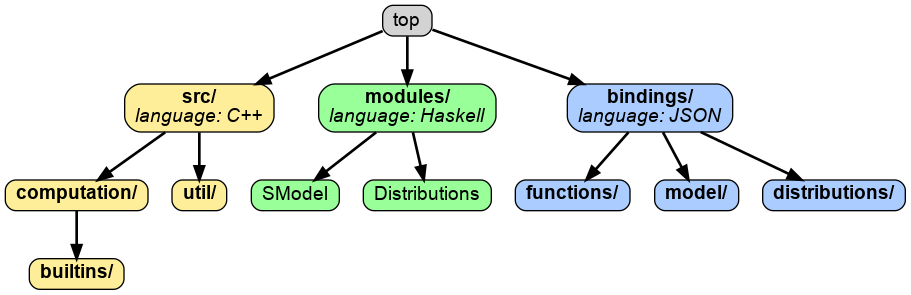
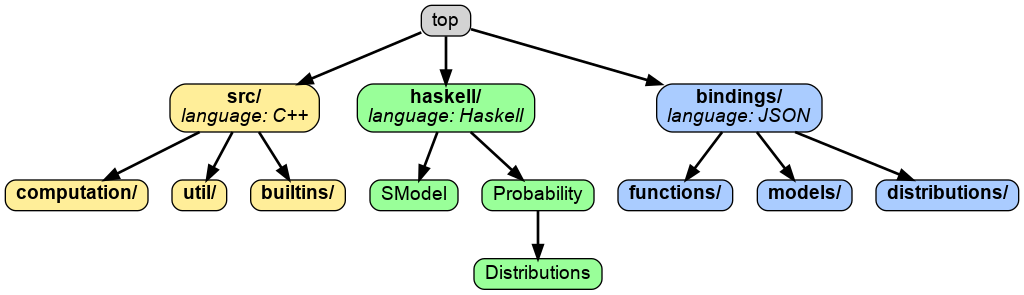
Update developer docs.
Former-commit-id: 09e88c0f77c6412903cdc193b465acfbdbbe5f4d

diff --git a/developer/distribution.html b/developer/distribution.html
@@ -77,68 +77,45 @@ code span.wa { color: #60a0b0; font-weight: bold; font-style: italic; } /* Warni
   <link rel="stylesheet" href="pandoc.css" />
 </head>
 <body>
-<header>
+<header id="title-block-header">
 <h1 class="title">Add a probability distributon to BAli-Phy</h1>
 </header>
-<p>Distributions are defined in <a href="https://github.com/bredelings/BAli-Phy/blob/master/modules/Distributions.hs">modules/Distributions.hs</a>.</p>
-<h2 id="making-a-probdensity-object">Making a ProbDensity object</h2>
-<p>For a distribution, you need to add a function that constructs a ProbDensity object.</p>
-<div class="sourceCode" id="cb1"><pre class="sourceCode haskell"><code class="sourceCode haskell"><a class="sourceLine" id="cb1-1" title="1">name parameters <span class="fu">=</span> <span class="dt">ProbDensity</span> (densities parameters) (quantile parameters) (sample parameters) (<span class="fu">range</span> parameters)</a></code></pre></div>
-<p>Here <code>densities</code> returns a list of terms which yield the density when multiplied together.</p>
+<p>Each probability distribution is defined in a module for that distribution. For example, the normal distribution is defined in <code>Probability.Distribution.Normal</code>, which is located at <a href="https://github.com/bredelings/BAli-Phy/blob/master/haskell/Probability/Distribution/Normal.hs">haskell/Probability/Distribution/Normal.hs</a>.</p>
+<p>To make a new distribution <code>mydist</code>, you should follow these steps, using the normal distribution as a template:</p>
+<ol type="1">
+<li>create a new Haskell module <code>Probability.Distribution.MyDist</code> in <code>haskell/Probability/Distribution/Mydist.hs</code> using <code>Normal.hs</code> as a template.</li>
+<li>create a new c++ function <code>builtin_function_mydist_density</code> in <code>src/builtins/Distribution.cc</code> using <code>builtin_function_normal_density</code> as a template.</li>
+<li>create a new c++ function <code>builtin_function_sample_mydist</code> in <code>src/builtins/Distribution.cc</code> using <code>builtin_function_sample_normal</code> as a template.</li>
+<li>[optional] create a new c++ function <code>builtin_function_mydist_quantile</code> in <code>src/builtins/Distribution.cc</code> using <code>builtin_function_normal_quantile</code> as a template.</li>
+<li>create a new JSON binding in <code>bindings/distributions/mydist.json</code> using <code>bindings/distribution/normal.json</code> as a template.</li>
+</ol>
+<h2 id="making-haskell-model-that-defines-the-distribution">Making Haskell model that defines the distribution</h2>
+<p>For a distribution, you need to add a function that constructs a Distribution object.</p>
+<div class="sourceCode" id="cb1"><pre class="sourceCode haskell"><code class="sourceCode haskell"><a class="sourceLine" id="cb1-1" title="1">name parameters <span class="ot">=</span> <span class="dt">Distribution</span> (densities parameters) (quantile parameters) (sample parameters) (<span class="fu">range</span> parameters)</a></code></pre></div>
 <p>For example, the Normal distribution is defined as:</p>
 <div class="sourceCode" id="cb2"><pre class="sourceCode haskell"><code class="sourceCode haskell"><a class="sourceLine" id="cb2-1" title="1">builtin normal_density <span class="dv">3</span> <span class="st">&quot;normal_density&quot;</span> <span class="st">&quot;Distribution&quot;</span></a>
 <a class="sourceLine" id="cb2-2" title="2">builtin normal_quantile <span class="dv">3</span> <span class="st">&quot;normal_quantile&quot;</span> <span class="st">&quot;Distribution&quot;</span></a>
-<a class="sourceLine" id="cb2-3" title="3">builtin builtin_sample_normal <span class="dv">2</span> <span class="st">&quot;sample_normal&quot;</span> <span class="st">&quot;Distribution&quot;</span></a>
-<a class="sourceLine" id="cb2-4" title="4">sample_normal m s <span class="fu">=</span> <span class="dt">Random</span> (<span class="dt">IOAction2</span> builtin_sample_normal m s)</a>
-<a class="sourceLine" id="cb2-5" title="5">normal m s <span class="fu">=</span> <span class="dt">ProbDensity</span> (\x <span class="ot">-&gt;</span> [normal_density m s x]) (normal_quantile m s) (sample_normal m s) realLine</a></code></pre></div>
-<h2 id="defining-the-density">Defining the density</h2>
-<p>A density function takes an extra argument after the distribution parameters. For example, the normal density takes 3 arguments, so that <code>(normal_density m s)</code> is a function of the third argument.</p>
-<p>A density function should return type <code>log_double_t</code>.</p>
-<h3 id="quantile">Quantile</h3>
+<a class="sourceLine" id="cb2-3" title="3">builtin builtin_sample_normal <span class="dv">3</span> <span class="st">&quot;sample_normal&quot;</span> <span class="st">&quot;Distribution&quot;</span></a>
+<a class="sourceLine" id="cb2-4" title="4">sample_normal m s <span class="ot">=</span> <span class="dt">RandomStructure</span> do_nothing modifiable_structure <span class="op">$</span> liftIO (<span class="dt">IOAction</span> (\state <span class="ot">-&gt;</span> (state, builtin_sample_normal m s state)))</a>
+<a class="sourceLine" id="cb2-5" title="5">normal m s <span class="ot">=</span> <span class="dt">Distribution</span> (\x <span class="ot">-&gt;</span> [normal_density m s x]) (normal_quantile m s) (sample_normal m s) realLine</a></code></pre></div>
+<h3 id="densities">densities</h3>
+<p>The first argument to <code>Distribution</code> is a function that returns a list of terms which yield the density when multiplied together. In this case there is just one term.</p>
+<p>A <code>normal_density</code> function takes an extra argument after the distribution parameters. For example, the normal density takes 3 arguments, so that <code>(normal_density m s)</code> is a function of the third argument.</p>
+<h3 id="quantile">quantile</h3>
 <p>A quantile function takes an extra argument after the distribution parameters. For example, the normal quantile takes 3 arguments, so that <code>(normal_quantile m s)</code> is a function of the third argument. The extra argument should have type <code>double</code>, and ranges from 0 to 1.</p>
-<p>If the function is not univariate, or does not have a quantile functon, set the quantile function to <code>(no_quantile &quot;distribution name&quot;)</code>. This will later change to use polymorphism, where only 1-dimensional functions will have a quantile attribute.</p>
-<h2 id="sample">Sample</h2>
+<p>If the function is not univariate, or does not have a quantile functon, set the quantile function to <code>(no_quantile "distribution name")</code>. This will later change to use polymorphism, where only 1-dimensional functions will have a quantile attribute.</p>
+<h2 id="c-sample">C++ sample</h2>
 <p>To construct a random sample from a C++ procedure, access the <code>n</code>th parameter via <code>Args.evaluate_(n)</code> (with an underscore) instead of <code>Args.evaluate(n)</code>. For example:</p>
 <div class="sourceCode" id="cb3"><pre class="sourceCode c++"><code class="sourceCode cpp"><a class="sourceLine" id="cb3-1" title="1"><span class="at">extern</span> <span class="st">&quot;C&quot;</span> closure builtin_function_sample_normal(OperationArgs&amp; Args)</a>
 <a class="sourceLine" id="cb3-2" title="2">{</a>
 <a class="sourceLine" id="cb3-3" title="3">    <span class="dt">double</span> a1 = Args.<span class="va">evaluate_</span>(<span class="dv">0</span>).as_double();</a>
 <a class="sourceLine" id="cb3-4" title="4">    <span class="dt">double</span> a2 = Args.<span class="va">evaluate_</span>(<span class="dv">1</span>).as_double();</a>
 <a class="sourceLine" id="cb3-5" title="5">  </a>
-<a class="sourceLine" id="cb3-6" title="6">    <span class="cf">return</span> { gaussian(a1, a2) };</a>
-<a class="sourceLine" id="cb3-7" title="7">}</a></code></pre></div>
-<p>Then use one of the following patterns, depending on how many arguments your sampling routine takes:</p>
-<div class="sourceCode" id="cb4"><pre class="sourceCode haskell"><code class="sourceCode haskell"><a class="sourceLine" id="cb4-1" title="1">sample_dist arg1 <span class="fu">=</span> <span class="dt">Random</span> (<span class="dt">IOAction1</span> builtin_sample_dist arg1)</a>
-<a class="sourceLine" id="cb4-2" title="2">sample_dist arg1 arg2 <span class="fu">=</span> <span class="dt">Random</span> (<span class="dt">IOAction2</span> builtin_sample_dist arg1 arg2)</a>
-<a class="sourceLine" id="cb4-3" title="3">sample_dist arg1 arg2 arg3 <span class="fu">=</span> <span class="dt">Random</span> (<span class="dt">IOAction3</span> builtin_sample_dist arg1 arg2 arg3)</a></code></pre></div>
-<p>For example:</p>
-<div class="sourceCode" id="cb5"><pre class="sourceCode haskell"><code class="sourceCode haskell"><a class="sourceLine" id="cb5-1" title="1">builtin builtin_sample_normal <span class="dv">2</span> <span class="st">&quot;sample_normal&quot;</span> <span class="st">&quot;Distribution&quot;</span></a>
-<a class="sourceLine" id="cb5-2" title="2">sample_normal m s <span class="fu">=</span> <span class="dt">Random</span> (<span class="dt">IOAction2</span> builtin_sample_normal m s)</a></code></pre></div>
-<p>The <code>(dist_sample parameters)</code> function returns an object in the Random monad, where executing a distribution has the semantics of sampling from the distribution. The sampling procedure can also call other actions in the Random monad. For example, here we sample from the distribution <code>(dist2 args)</code> and transform the result.</p>
-<div class="sourceCode" id="cb6"><pre class="sourceCode haskell"><code class="sourceCode haskell"><a class="sourceLine" id="cb6-1" title="1">sample_dist args <span class="fu">=</span> <span class="kw">do</span> x <span class="ot">&lt;-</span> dist2 args</a>
-<a class="sourceLine" id="cb6-2" title="2">                      <span class="fu">return</span> (f x)</a></code></pre></div>
-<h2 id="range">Range</h2>
-<p>Ranges for real numbers are:</p>
-<ul>
-<li>above x</li>
-<li>below x</li>
-<li>between x y</li>
-<li>realLine</li>
-</ul>
-<p>Ranges for Integers are:</p>
-<ul>
-<li>integer_above i</li>
-<li>integer_below i</li>
-<li>integer_between i j</li>
-</ul>
-<p>In each case, the range includes the bounds. For example, <code>(integer_above 0)</code> includes <code>0</code>, and <code>(integer_between 0 1)</code> includes <code>0</code> and <code>1</code>.</p>
-<p>Ranges for Booleans are:</p>
-<ul>
-<li>TrueFalseRange</li>
-</ul>
-<p>Ranges for simplices are</p>
-<ul>
-<li>Simplex n sum</li>
-</ul>
-<p>where <code>n</code> is the number of dimensions, and <code>sum</code> is the sum of the values (usually <code>1.0</code>).</p>
+<a class="sourceLine" id="cb3-6" title="6">    Args.make_changeable();</a>
+<a class="sourceLine" id="cb3-7" title="7"></a>
+<a class="sourceLine" id="cb3-8" title="8">    <span class="cf">return</span> { gaussian(a1, a2) };</a>
+<a class="sourceLine" id="cb3-9" title="9">}</a></code></pre></div>
+<h2 id="c-density">C++ density</h2>
+<p>A density function should return type <code>log_double_t</code>.</p>
 </body>
 </html>

diff --git a/developer/add_function.html b/developer/add_function.html
@@ -77,32 +77,45 @@ code span.wa { color: #60a0b0; font-weight: bold; font-style: italic; } /* Warni
   <link rel="stylesheet" href="pandoc.css" />
 </head>
 <body>
-<header>
+<header id="title-block-header">
 <h1 class="title">Adding a function to BAli-Phy</h1>
 </header>
-<p>In BAli-Phy, models and distributions are implemented as functions. This makes sense since models and distributions take parameters, just like functions do. To add a function, we must first write a function in Haskell. Then we must put a JSON file in the <code>bindings</code> directory so that the Haskell function becomes visible from the command-line.</p>
-<h2 id="adding-a-function-haskell">Adding a function: Haskell</h2>
-<p>Haskell functions are defined in Haskell <em>modules</em> in the <a href="https://github.com/bredelings/BAli-Phy/blob/master/modules/">modules/</a> directory.<br />
-The special module called <code>Prelude</code> is automatically imported, so that functions defined in the Prelude are visible by default. Any function added to the Prelude (<code>modules/Prelude.hs</code>) will be visible by default.</p>
-<p>For example, you could add the function <code>square</code> to the Prelude:</p>
-<div class="sourceCode" id="cb1"><pre class="sourceCode haskell"><code class="sourceCode haskell"><a class="sourceLine" id="cb1-1" title="1">square x <span class="fu">=</span> x <span class="fu">*</span> x</a></code></pre></div>
-<p>This function will then be visible to other Haskell functions, but will not yet be visible from the command line.</p>
+<p>Since BAli-Phy models are written in Haskell, you can define functions inside your own model file. However, some functions are used frequently enough to add them to BAli-Phy itself instead of including them separately in multiple different model files.</p>
+<p>Adding a function to BAli-Phy involves adding it to one of the Haskell modules that comes with BAli-Phy so that it can be used from multiple different model files. To make the function visible from the command line as well, you will need to add a JSON file to the <code>bindings</code> directory that describes how to access the Haskell function.</p>
+<h2 id="haskell-modules">Haskell modules</h2>
+<p>In order to add a function to BAli-Phy you need to add it to a module. For example, if you add the function to the module <code>SModel.Nucleotides</code> then you could access it by adding</p>
+<div class="sourceCode" id="cb1"><pre class="sourceCode haskell"><code class="sourceCode haskell"><a class="sourceLine" id="cb1-1" title="1"><span class="kw">import</span> <span class="dt">SModel.Nucleotides</span></a></code></pre></div>
+<p>to the beginning of your model file.</p>
+<p>The Haskell file for the module <code>SModel.Nucleotides</code> is located at <code>haskell/SModel/Nucleotides.hs</code>. (See the <a href="https://github.com/bredelings/BAli-Phy/blob/master/haskell/">haskell/</a> directory on github.) The module file begins with a module declaration:</p>
+<div class="sourceCode" id="cb2"><pre class="sourceCode haskell"><code class="sourceCode haskell"><a class="sourceLine" id="cb2-1" title="1"><span class="kw">module</span> <span class="dt">SModel.Nucleotides</span> <span class="kw">where</span></a></code></pre></div>
+<p>We can then write a function inside this module. For example, in the module <code>SModel.Nucleotides</code>, we have the function <code>hky85</code>:</p>
+<div class="sourceCode" id="cb3"><pre class="sourceCode haskell"><code class="sourceCode haskell"><a class="sourceLine" id="cb3-1" title="1">hky85 k    <span class="fu">pi</span> a <span class="ot">=</span> gtr a (hky85_sym k a) <span class="fu">pi</span></a></code></pre></div>
+<p>This function defines the <code>hky85</code> model as a function of the transition-transversion ratio (<code>k</code>), the equilibrium frequencies (<code>pi</code>) and the DNA or RNA alphabet (<code>a</code>).</p>
+<h2 id="creating-a-new-module">Creating a new module</h2>
+<p>Let’s create a new module called <code>Bio.MyModule</code> that contains a function for squaring numbers. First we create a new module at <code>haskell/Bio/MyModule.hs</code>. Module names must begin with an upper-case letter. After the first letter, lower-case letters, numbers, and <code>_</code> are allowed.</p>
+<p>Then we add the following to the file:</p>
+<div class="sourceCode" id="cb4"><pre class="sourceCode haskell"><code class="sourceCode haskell"><a class="sourceLine" id="cb4-1" title="1"><span class="kw">module</span> <span class="dt">Bio.MyModule</span> <span class="kw">where</span></a>
+<a class="sourceLine" id="cb4-2" title="2"></a>
+<a class="sourceLine" id="cb4-3" title="3">square x <span class="ot">=</span> x <span class="op">*</span> x</a></code></pre></div>
+<p>After we rerun <code>ninja install</code>, the function <code>square</code> module will be accessible to model files that import <code>Bio.MyModule</code>.</p>
 <h2 id="using-a-function-from-the-command-line">Using a function from the command line</h2>
-<p>To make a Haskell function accessible from the command line, you must add a JSON file to the directory <code>bindings/</code>. For example, to add our new function <code>square</code> to the command line interface, we could add a file called <code>bindings/functions/square.json</code> containing the text:</p>
-<div class="sourceCode" id="cb2"><pre class="sourceCode json"><code class="sourceCode json"><a class="sourceLine" id="cb2-1" title="1"><span class="fu">{</span></a>
-<a class="sourceLine" id="cb2-2" title="2">    <span class="dt">&quot;name&quot;</span><span class="fu">:</span> <span class="st">&quot;square&quot;</span><span class="fu">,</span></a>
-<a class="sourceLine" id="cb2-3" title="3">    <span class="dt">&quot;result_type&quot;</span><span class="fu">:</span> <span class="st">&quot;Double&quot;</span><span class="fu">,</span></a>
-<a class="sourceLine" id="cb2-4" title="4">    <span class="dt">&quot;call&quot;</span><span class="fu">:</span> <span class="st">&quot;Prelude.square[x]&quot;</span><span class="fu">,</span></a>
-<a class="sourceLine" id="cb2-5" title="5">    <span class="dt">&quot;args&quot;</span><span class="fu">:</span> <span class="ot">[</span></a>
-<a class="sourceLine" id="cb2-6" title="6">        <span class="fu">{</span></a>
-<a class="sourceLine" id="cb2-7" title="7">            <span class="dt">&quot;arg_name&quot;</span><span class="fu">:</span> <span class="st">&quot;x&quot;</span><span class="fu">,</span></a>
-<a class="sourceLine" id="cb2-8" title="8">            <span class="dt">&quot;arg_type&quot;</span><span class="fu">:</span> <span class="st">&quot;Double&quot;</span><span class="fu">,</span></a>
-<a class="sourceLine" id="cb2-9" title="9">        <span class="fu">}</span></a>
-<a class="sourceLine" id="cb2-10" title="10">    <span class="ot">]</span></a>
-<a class="sourceLine" id="cb2-11" title="11"><span class="fu">}</span></a></code></pre></div>
+<p>To make a Haskell function accessible from the command line, you must add a JSON file to the directory <code>bindings/</code>. For example, to add our a function <code>square</code> in the module <code>Bio.MyModule</code> to the command line interface, we could add a file called <code>bindings/functions/square.json</code> containing the text:</p>
+<div class="sourceCode" id="cb5"><pre class="sourceCode json"><code class="sourceCode json"><a class="sourceLine" id="cb5-1" title="1"><span class="fu">{</span></a>
+<a class="sourceLine" id="cb5-2" title="2">    <span class="dt">&quot;name&quot;</span><span class="fu">:</span> <span class="st">&quot;square&quot;</span><span class="fu">,</span></a>
+<a class="sourceLine" id="cb5-3" title="3">    <span class="dt">&quot;result_type&quot;</span><span class="fu">:</span> <span class="st">&quot;Double&quot;</span><span class="fu">,</span></a>
+<a class="sourceLine" id="cb5-4" title="4">    <span class="dt">&quot;import&quot;</span><span class="fu">:</span> <span class="ot">[</span><span class="st">&quot;Bio.MyModule&quot;</span><span class="ot">]</span><span class="fu">,</span></a>
+<a class="sourceLine" id="cb5-5" title="5">    <span class="dt">&quot;call&quot;</span><span class="fu">:</span> <span class="st">&quot;square[x]&quot;</span><span class="fu">,</span></a>
+<a class="sourceLine" id="cb5-6" title="6">    <span class="dt">&quot;args&quot;</span><span class="fu">:</span> <span class="ot">[</span></a>
+<a class="sourceLine" id="cb5-7" title="7">        <span class="fu">{</span></a>
+<a class="sourceLine" id="cb5-8" title="8">            <span class="dt">&quot;arg_name&quot;</span><span class="fu">:</span> <span class="st">&quot;x&quot;</span><span class="fu">,</span></a>
+<a class="sourceLine" id="cb5-9" title="9">            <span class="dt">&quot;arg_type&quot;</span><span class="fu">:</span> <span class="st">&quot;Double&quot;</span><span class="fu">,</span></a>
+<a class="sourceLine" id="cb5-10" title="10">        <span class="fu">}</span></a>
+<a class="sourceLine" id="cb5-11" title="11">    <span class="ot">]</span></a>
+<a class="sourceLine" id="cb5-12" title="12"><span class="fu">}</span></a></code></pre></div>
 <ul>
 <li>The <code>name</code> property determines the name that is visible on the command line.</li>
 <li>The <code>result_type</code> property specifies the type of object returned by the function.</li>
+<li>The <code>import</code> property gives a list of modules that need to be imported to find the function.</li>
 <li>The <code>call</code> property specifies which Haskell function to call, and which arguments to pass.</li>
 <li>The <code>args</code> array specifies the name and type for each argument.</li>
 </ul>

diff --git a/developer/builtin.html b/developer/builtin.html
@@ -77,18 +77,19 @@ code span.wa { color: #60a0b0; font-weight: bold; font-style: italic; } /* Warni
   <link rel="stylesheet" href="pandoc.css" />
 </head>
 <body>
-<header>
+<header id="title-block-header">
 <h1 class="title">Adding a C++ function</h1>
 </header>
-<p>BAli-Phy executes C++ functions much more quickly than it executes Haskell functions. To add a “builtin” C++ operation to bali-phy’s Haskell code, you must add the C++ code for the operation to one of the C++ files in the <a href="https://github.com/bredelings/BAli-Phy/blob/master/src/builtins">src/builtins/</a> directory. You must also tell the Haskell interpreter how to call this function by declaring it one of Haskell modules in the <a href="https://github.com/bredelings/BAli-Phy/blob/master/modules/">modules/</a> directory.</p>
+<p>To add a “builtin” C++ operation to bali-phy’s Haskell code, you need to do two things: 1.. <em>write</em> the code for function in a C++ file. 2. <em>declare</em> the C++ builtin function in a Haskell module. The second step is necessary to make the C++ function visible in Haskell.</p>
 <h2 id="declaring-a-c-builtin-in-haskell">Declaring a C++ builtin in Haskell</h2>
 <p>A builtin is declared via the following syntax:</p>
 <div class="sourceCode" id="cb1"><pre class="sourceCode haskell"><code class="sourceCode haskell"><a class="sourceLine" id="cb1-1" title="1">builtin haskell_name number_of_arguments <span class="st">&quot;c++ name&quot;</span> <span class="st">&quot;module name&quot;</span></a></code></pre></div>
-<p>For example, the Haskell function <code>poisson_density</code> is declared with the following line from <a href="https://github.com/bredelings/BAli-Phy/blob/master/modules/Distributions.hs">modules/Distributions.hs</a>:</p>
+<p>For example, the Haskell function <code>poisson_density</code> is declared with the following line from <a href="https://github.com/bredelings/BAli-Phy/blob/master/haskell/Distributions.hs">haskell/Distributions.hs</a>:</p>
 <div class="sourceCode" id="cb2"><pre class="sourceCode haskell"><code class="sourceCode haskell"><a class="sourceLine" id="cb2-1" title="1">builtin poisson_density <span class="dv">2</span> <span class="st">&quot;poisson_density&quot;</span> <span class="st">&quot;Distribution&quot;</span></a></code></pre></div>
 <p>The first two arguments specify the Haskell name (<code>poisson_density</code>) and the number of arguments in Haskell (<code>2</code>). The C++ function name is derived from the third argument (<code>poisson_density</code>) by adding <code>builtin_function_</code> in front. So the C++ function will be called <code>builtin_function_poisson_density</code>. The last argument specifies which loadable module contains the C++ function. Since this function is in the module “Distribution”, its source code goes in <a href="https://github.com/bredelings/BAli-Phy/blob/master/src/builtins/Distribution.cc">src/builtins/Distribution.cc</a>.</p>
+<p>To make this in the <a href="https://github.com/bredelings/BAli-Phy/blob/master/haskell/">haskell/</a> directory.</p>
 <h2 id="writing-a-builtin-in-c">Writing a builtin in C++</h2>
-<p>The C++ function for a builtin must be defined in one of the C++ files in the <a href="https://github.com/bredelings/BAli-Phy/blob/master/src/builtins">src/builtins</a> directory, and the function name must begin with <code>builtin_function_</code>. The function must also be declared <code>extern &quot;C&quot;</code> (to avoid name mangling).</p>
+<p>The C++ function for a builtin must be defined in one of the C++ files in the <a href="https://github.com/bredelings/BAli-Phy/blob/master/src/builtins">src/builtins</a> directory, and the function name must begin with <code>builtin_function_</code>. The function must also be declared <code>extern "C"</code> (to avoid name mangling).</p>
 <p>For example, the poisson density function is written in <a href="https://github.com/bredelings/BAli-Phy/blob/master/src/builtins/Distribution.cc">src/builtins/Distribution.cc</a> as follows:</p>
 <div class="sourceCode" id="cb3"><pre class="sourceCode c++"><code class="sourceCode cpp"><a class="sourceLine" id="cb3-1" title="1"><span class="at">extern</span> <span class="st">&quot;C&quot;</span> closure builtin_function_poisson_density(OperationArgs&amp; Args)</a>
 <a class="sourceLine" id="cb3-2" title="2">{</a>

diff --git a/developer/binding.html b/developer/binding.html
@@ -77,7 +77,7 @@ code span.wa { color: #60a0b0; font-weight: bold; font-style: italic; } /* Warni
   <link rel="stylesheet" href="pandoc.css" />
 </head>
 <body>
-<header>
+<header id="title-block-header">
 <h1 class="title">Using a function from the command line</h1>
 </header>
 <p>To make a Haskell function accessible from the command line, you must add a JSON file to the directory <code>bindings/</code> that registers the Haskell function.</p>